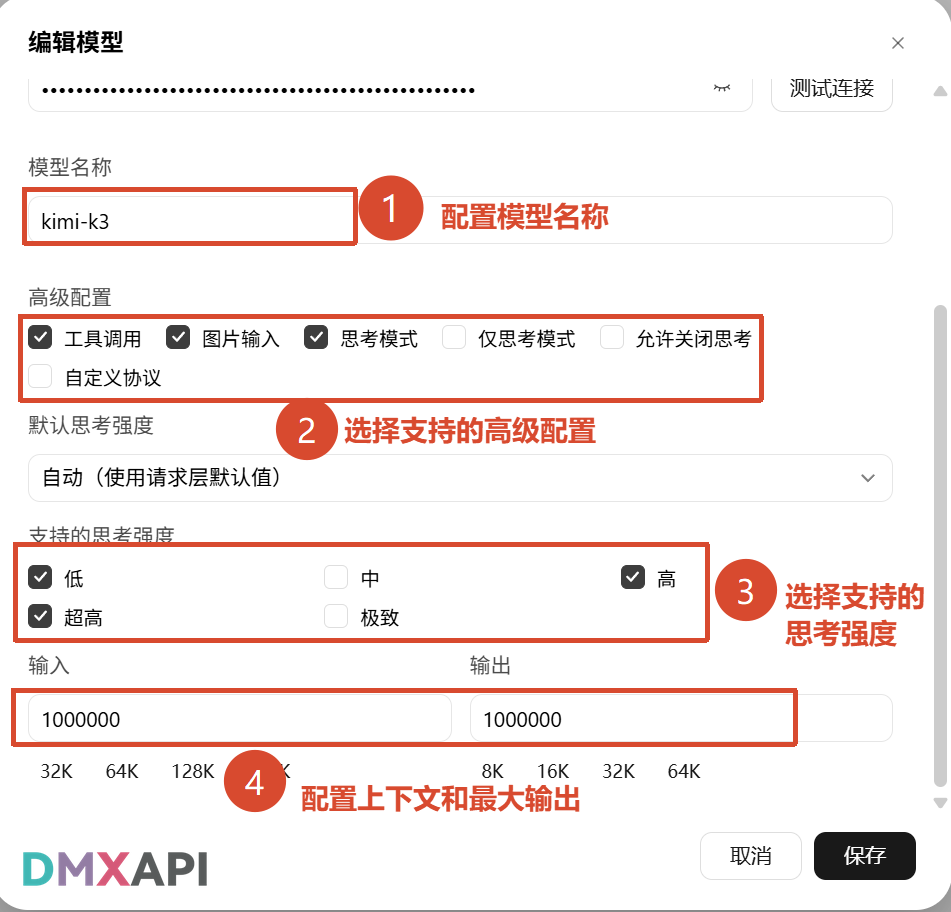
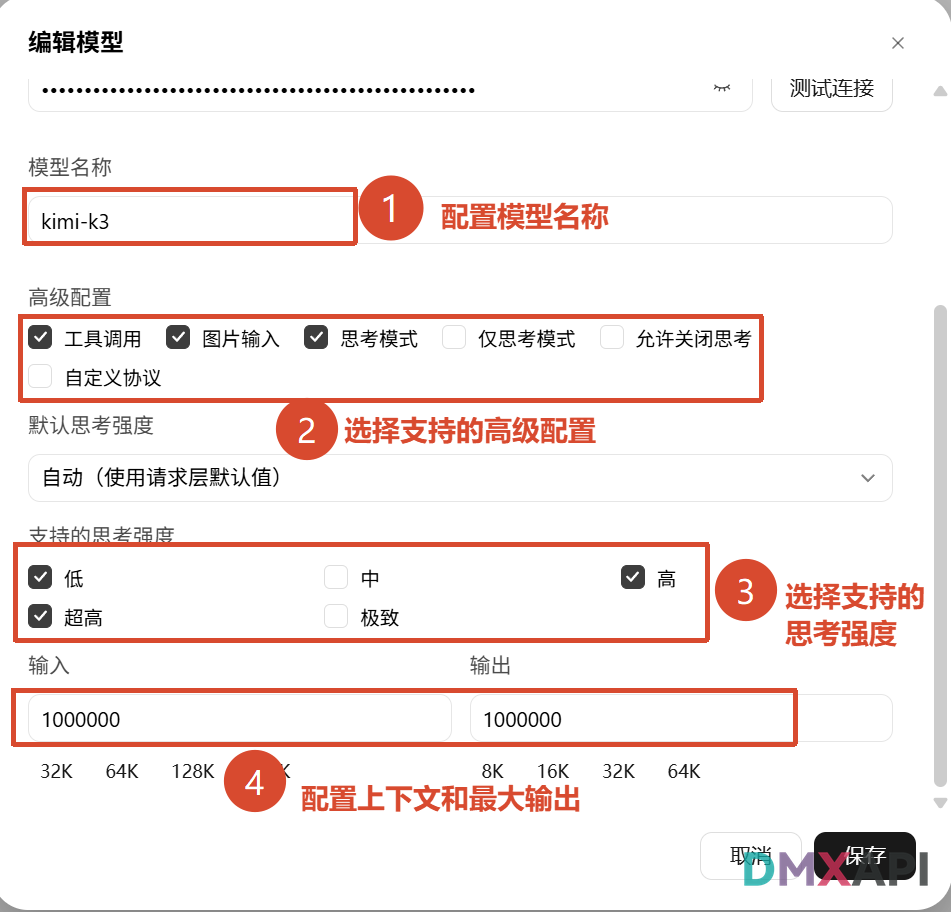
chore(workbuddy): 水印统一改为右下角
- 恢复 workbuddy1~10 原图后重新加水印，全部放右下角
- add_watermark.py 列表改回纯字符串，默认右下角

Changed region(s): [[0.0, 0.9211, 0.2135, 0.9825], [0.7624, 0.9211, 0.9758, 0.9825]]

diff --git a/add_watermark.py b/add_watermark.py
@@ -187,13 +187,13 @@ def main() -> None:
     # 可以根据实际需要修改这个列表
     image_files = [
         'img/workbuddy1.png',
-        ('img/workbuddy2.png', 'bottom-left'),   # 右下角是「取消/保存」按钮，改放左下
-        ('img/workbuddy3.png', 'bottom-left'),
-        ('img/workbuddy4.png', 'bottom-left'),
-        ('img/workbuddy5.png', 'bottom-left'),
-        ('img/workbuddy6.png', 'bottom-left'),
+        'img/workbuddy2.png',
+        'img/workbuddy3.png',
+        'img/workbuddy4.png',
+        'img/workbuddy5.png',
+        'img/workbuddy6.png',
         'img/workbuddy7.png',
-        ('img/workbuddy8.png', 'bottom-left'),   # 右下角是模型选择器红框与发送按钮，改放左下
+        'img/workbuddy8.png',
         'img/workbuddy9.png',
         'img/workbuddy10.png',
     ]
